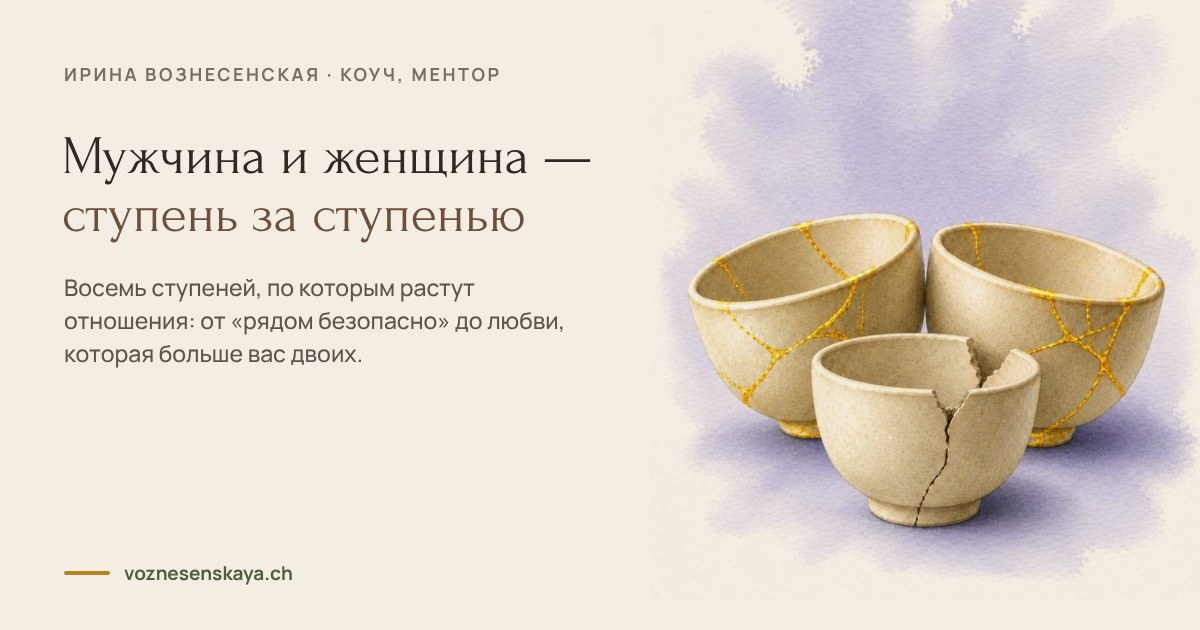
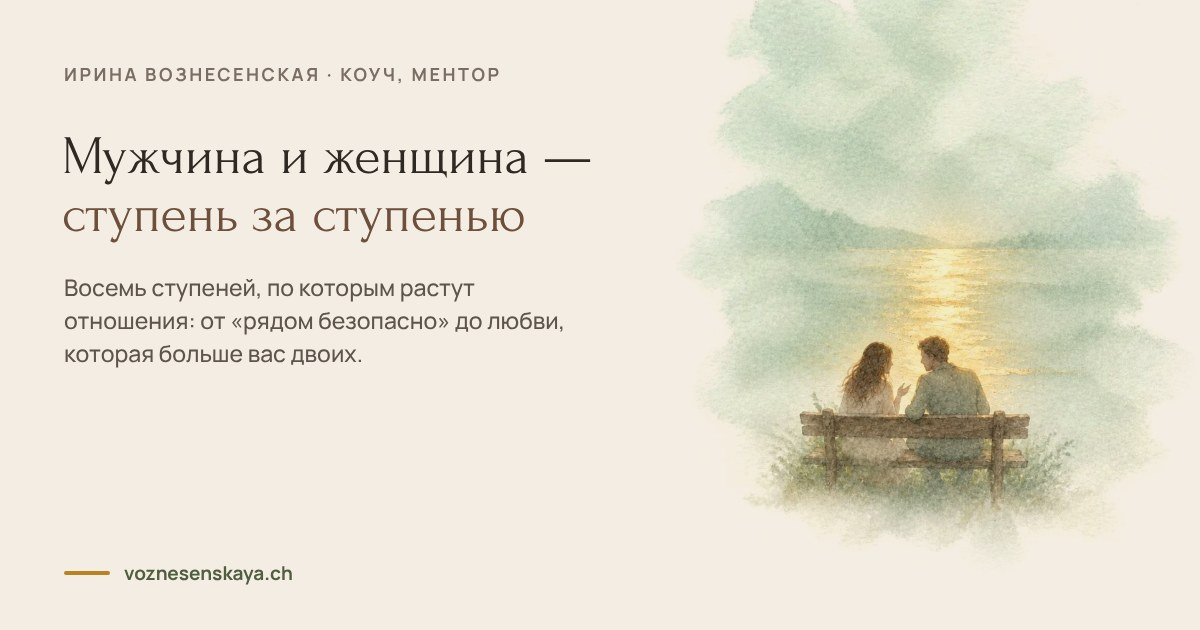
Превью ссылок: главная — два кресла со столиком и лампой (все языки); «Запись» — бумажный самолётик; «Условия» — блокнот с карандашом; «Своё дело» и «Отношения» — свои карты пути вместо чаш; память сайта v43
Claude-Session: https://claude.ai/code/session_0123FQX3t97AptEXXf1AmFJK

Changed region(s): [[0.555, 0.0, 1.0, 0.9048]]

diff --git a/_i18n/og.js b/_i18n/og.js
@@ -13,7 +13,7 @@ const ROOT = path.resolve(__dirname, '..');
 const EB = { ru: 'ИРИНА ВОЗНЕСЕНСКАЯ · КОУЧ, МЕНТОР', uk: 'ІРИНА ВОЗНЕСЕНСЬКА · КОУЧ, МЕНТОРКА', de: 'IRYNA VOZNESENSKAYA · COACH, MENTORIN', en: 'IRYNA VOZNESENSKAYA · COACH, MENTOR' };
 const CARDS = [
   { out: 'og-image',
-    art: () => steps(),
+    art: () => sq('home/img/og/kresla.jpg'),
     ru: ['Жизнь после переезда <em>можно собрать заново</em>', 'Шаг за шагом, с того места, где ты сейчас. Метод «Ступени. Твой путь в новой стране».'],
     uk: ['Життя після переїзду <em>можна зібрати заново</em>', 'Крок за кроком, з того місця, де ти зараз. Метод «Сходинки. Твій шлях у новій країні».'],
     de: ['Das Leben nach dem Umzug <em>lässt sich neu zusammensetzen</em>', 'Schritt für Schritt, von dort aus, wo du gerade stehst. Die Methode «Stufen. Dein Weg im neuen Land».'],
@@ -25,25 +25,25 @@ const CARDS = [
     de: ['Stufen. <em>Dein Weg</em> im neuen Land', 'Acht Stufen — eine Schale, die zerbrochen ist und sich mit Gold neu zusammensetzt. Schau, wo du stehst.'],
     en: ['Steps. <em>Your path</em> in a new country', 'Eight steps — the story of one bowl that broke and is coming together again with gold. See where you are now.'] },
   { out: 'zapis/og-image',
-    art: () => art(),
+    art: () => sq('home/img/og/samolet.jpg'),
     ru: ['Запись <em>на встречу</em>', 'Выбери день и время, которые удобны тебе. Знакомство 30 минут бесплатно, онлайн в Zoom.'],
     uk: ['Запис <em>на зустріч</em>', 'Вибери день і час, які зручні тобі. Знайомство 30 хвилин безкоштовно, онлайн у Zoom.'],
     de: ['Termin <em>buchen</em>', 'Wähl den Tag und die Zeit, die dir passen. Kennenlernen 30 Minuten kostenlos, online über Zoom.'],
     en: ['Book <em>a session</em>', 'Choose the day and time that suit you. Introductory meeting 30 minutes, free, online via Zoom.'] },
   { out: 'usloviya/og-image',
-    art: () => art(),
+    art: () => sq('home/img/og/bloknot.jpg'),
     ru: ['Условия <em>работы со мной</em>', 'Как записаться, когда платить, как перенести встречу и что будет, если ты решишь остановиться.'],
     uk: ['Умови <em>роботи зі мною</em>', 'Як записатися, коли платити, як перенести зустріч і що буде, якщо ти вирішиш зупинитися.'],
     de: ['Bedingungen der <em>Zusammenarbeit</em>', 'Wie du einen Termin vereinbarst, wann du bezahlst, wie du verschiebst und was passiert, wenn du aufhören möchtest.'],
     en: ['Terms of <em>working with me</em>', 'How to book, when to pay, how to reschedule and what happens if you decide to stop.'] },
   { out: 'delo/og-image',
-    art: () => fullBowl(),
+    art: () => card('home/img/og/delo.jpg'),
     ru: ['Своё дело — <em>с&nbsp;нуля и&nbsp;до&nbsp;вершины</em>', 'Восемь ступеней, по которым растёт своё дело в новой стране. Посмотри, где ты сейчас и что поможет дальше.'] },   // КОПИЯ 13.10.2026; uk/de/en — после «переводи»
   { out: 'osnova/og-image',
     art: () => koster(),
     ru: ['Спиральная динамика&nbsp;— <em>основа метода</em>', 'Кто её создал, что важно человеку на каждом из восьми уровней и как он переходит на следующий.'] },
   { out: 'otnosheniya/og-image',
-    art: () => twoBowls(),
+    art: () => card('home/img/og/otnosheniya.jpg'),
     ru: ['Мужчина и&nbsp;женщина&nbsp;— <em>ступень за&nbsp;ступенью</em>', 'Восемь ступеней, по которым растут отношения: от «рядом безопасно» до любви, которая больше вас двоих.'] },   // КОПИЯ 14.10.2026; uk/de/en — после «переводи»
 ];
 // эдельвейс из логотипа (favicon.svg)
@@ -68,6 +68,13 @@ function art() {
   return `<circle cx="${gx}" cy="190" r="150" fill="#EFE5D6"/><ellipse cx="${gx}" cy="${ground + 170}" rx="300" ry="175" fill="#EADFCF"/>
 <path d="M640 ${ground} C740 ${ground - 10} 840 ${ground + 6} 930 ${ground - 2} S1120 ${ground + 8} 1200 ${ground - 4}" fill="none" stroke="#6E4F3C" stroke-width="3" stroke-linecap="round"/>${roots}
 <path d="M${gx} ${ground + 4} C${gx - 8} 360 ${gx + 10} 300 ${gx} 250" stroke="#66704F" stroke-width="6" fill="none" stroke-linecap="round"/>${leaves}${logo(gx, 180, 190)}`;
+}
+/* 15.10.2026, 21:11, Ирина: «На сайте обнови все превьюшки, на моей основной превью поставь вот те кресла со столиком и лампой» */
+function sq(f) {   // квадратная акварель-медальон (кресла, самолётик, блокнот), белая бумага сливается с фоном (multiply)
+  return `<image href="file://${ROOT}/${f}" x="640" y="20" width="590" height="590" preserveAspectRatio="xMidYMid meet" style="mix-blend-mode:multiply"/>`;
+}
+function card(f) {   // акварельная карта пути 900×1205, белая бумага сливается с фоном (multiply)
+  return `<image href="file://${ROOT}/${f}" x="650" y="-150" width="560" height="750" preserveAspectRatio="xMidYMid slice" style="mix-blend-mode:multiply"/>`;
 }
 function steps() {   // главная: акварель «Ступени», белая бумага сливается с фоном (multiply)
   return `<image href="file://${ROOT}/home/img/stupeni-hero.jpg" x="690" y="12" width="490" height="608" preserveAspectRatio="xMidYMid meet" style="mix-blend-mode:multiply"/>`;

diff --git a/sw.js b/sw.js
@@ -3,7 +3,7 @@
    Файлы (стили, скрипты, шрифты, картинки): сразу из памяти, в фоне обновляются.
    Личные записи людей здесь не хранятся: они остаются в localStorage браузера, как раньше.
    При изменении этого файла поднять VERSION — старая память удалится. */
-const VERSION = 'v42-2026-10-15';
+const VERSION = 'v43-2026-10-15';
 const CACHE = 'vz-' + VERSION;
 const CORE = ['/offline.html', '/assets/vz-app.js', '/icon-192.png', '/favicon.svg'];
 const MAX = 160;
